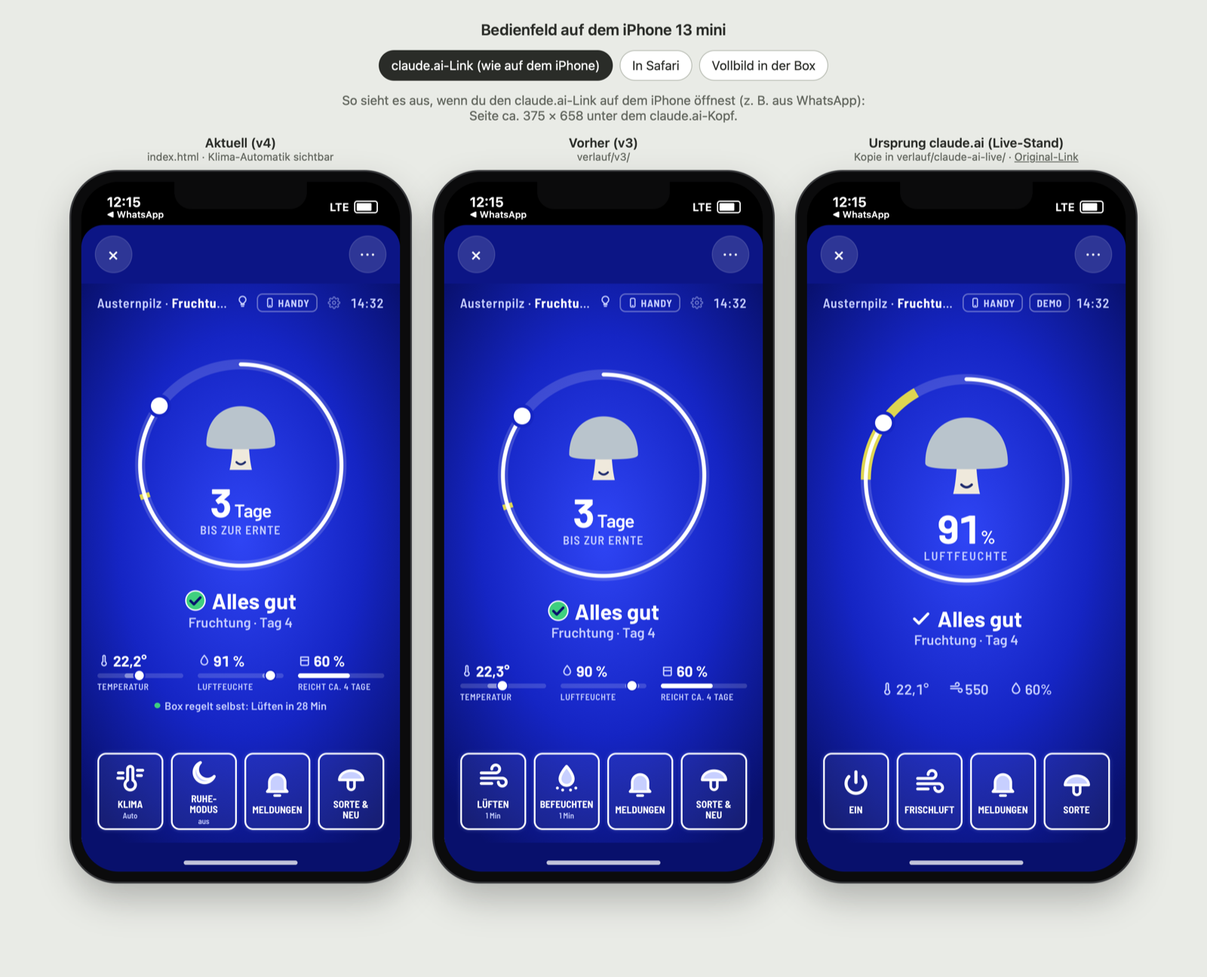
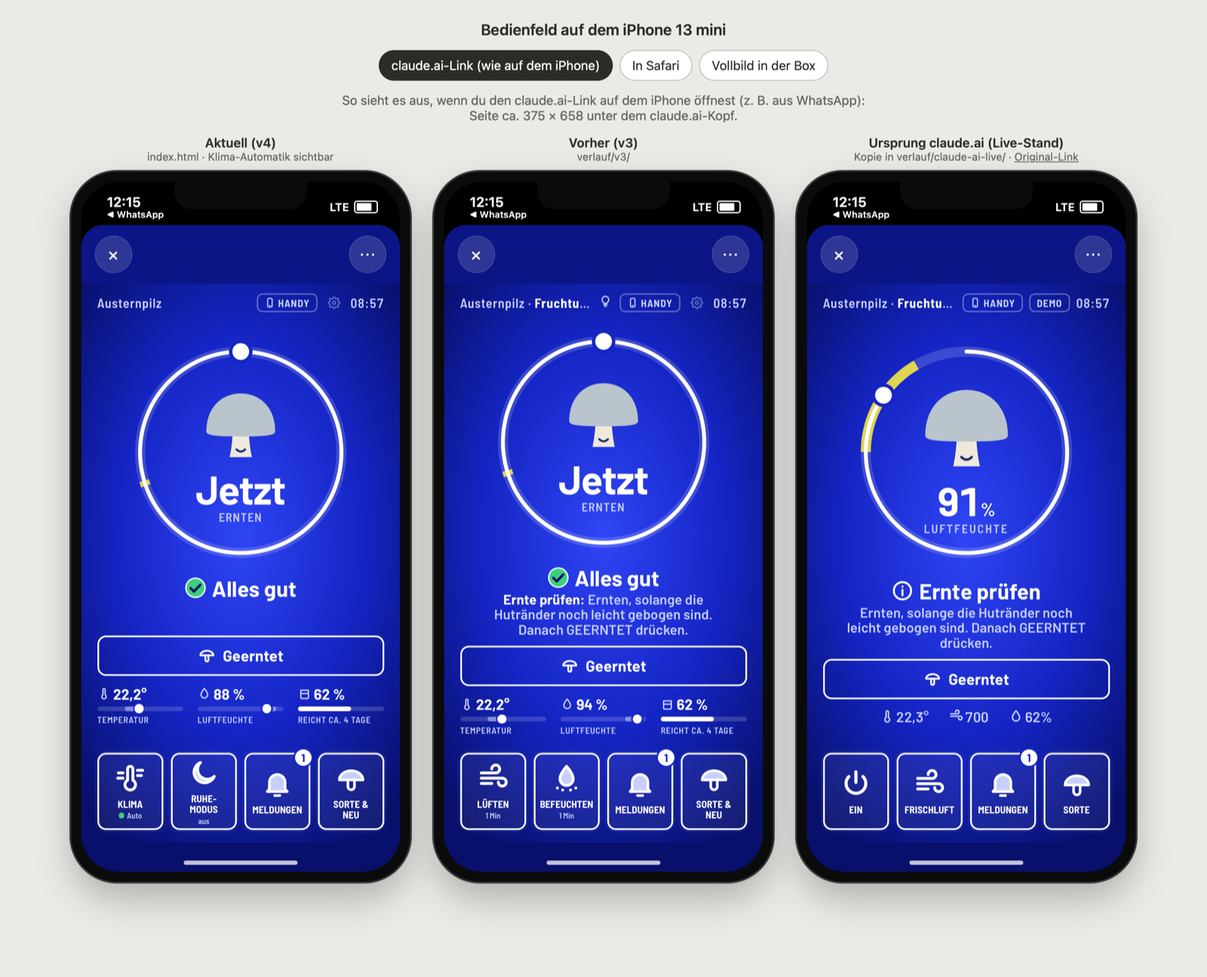
feat: Startbild schlanker – kein Text unter „Alles gut“, Klima-Punkt blinkt dauerhaft, oben nur Pilzname; Einzel-Vorschau

diff --git a/01-konzept/bedienfeld/index.html b/01-konzept/bedienfeld/index.html
@@ -142,10 +142,10 @@ button{font:inherit;color:inherit;cursor:pointer;-webkit-tap-highlight-color:tra
 .hist svg{width:5cqw;height:5cqw}
 .hist time{color:var(--ink-soft);font-variant-numeric:tabular-nums;white-space:nowrap}
 .hist small{grid-column:3;color:var(--ink-soft);font-size:3.6cqw}
-.autoline{display:flex;align-items:center;justify-content:center;gap:1.6cqw;flex-wrap:wrap;margin-top:2.6cqw;font-size:3.8cqw;font-weight:600;color:var(--ink-soft);text-align:center;line-height:1.2}
-.autoline b{color:var(--ink);font-weight:700}
-.autoline .pulse,.key .pulse{display:inline-block;width:2cqw;height:2cqw;border-radius:50%;background:var(--ok);box-shadow:0 0 0 0 rgba(63,207,127,.7);animation:pulse 1.6s ease-out infinite}
-@keyframes pulse{70%{box-shadow:0 0 0 2cqw rgba(63,207,127,0)}100%{box-shadow:0 0 0 0 rgba(63,207,127,0)}}
+/* Klima-Taste: grüner Punkt blinkt dauerhaft, solange die Automatik läuft */
+.key .pulse{display:inline-block;width:2cqw;height:2cqw;border-radius:50%;background:var(--ok);animation:autoblink 1.2s ease-in-out infinite}
+@keyframes autoblink{50%{opacity:.1}}
+@media (prefers-reduced-motion:reduce){.key .pulse{animation:none}}
 .key i{display:inline-flex;align-items:center;gap:1cqw}
 .crow{display:grid;grid-template-columns:auto 1fr auto;gap:1cqw 2.4cqw;align-items:center;border-bottom:.3cqw solid var(--ink-dim);padding:2cqw 0}
 .crow svg{width:6.4cqw;height:6.4cqw}
@@ -261,7 +261,7 @@ button{font:inherit;color:inherit;cursor:pointer;-webkit-tap-highlight-color:tra
   <div class="device">
     <div class="glass">
       <div class="screen" id="screen">
-        <div class="topbar"><span id="topCulture">Austernpilz · <b>Fruchtung</b></span><span class="tr"><span class="ticon" id="topIcons"></span><button class="link-chip" id="linkChip" aria-label="Mit Handy verbinden"><svg viewBox="0 0 24 24" fill="none" stroke="currentColor" stroke-width="2.4" stroke-linecap="round" aria-hidden="true"><rect x="7" y="2.5" width="10" height="19" rx="2.5"/><path d="M11 18.5h2"/></svg><span>Handy</span></button><button class="admin-btn" id="demoChip" aria-label="Admin-Modus"><svg viewBox="0 0 24 24" fill="none" stroke="currentColor" stroke-width="2" stroke-linecap="round" stroke-linejoin="round" aria-hidden="true"><circle cx="12" cy="12" r="3"/><path d="M19.4 15a1.7 1.7 0 0 0 .3 1.8l.1.1a2 2 0 1 1-2.8 2.8l-.1-.1a1.7 1.7 0 0 0-1.8-.3 1.7 1.7 0 0 0-1 1.5V21a2 2 0 1 1-4 0v-.1a1.7 1.7 0 0 0-1.1-1.5 1.7 1.7 0 0 0-1.8.3l-.1.1a2 2 0 1 1-2.8-2.8l.1-.1a1.7 1.7 0 0 0 .3-1.8 1.7 1.7 0 0 0-1.5-1H3a2 2 0 1 1 0-4h.1a1.7 1.7 0 0 0 1.5-1.1 1.7 1.7 0 0 0-.3-1.8l-.1-.1a2 2 0 1 1 2.8-2.8l.1.1a1.7 1.7 0 0 0 1.8.3H9a1.7 1.7 0 0 0 1-1.5V3a2 2 0 1 1 4 0v.1a1.7 1.7 0 0 0 1 1.5 1.7 1.7 0 0 0 1.8-.3l.1-.1a2 2 0 1 1 2.8 2.8l-.1.1a1.7 1.7 0 0 0-.3 1.8V9a1.7 1.7 0 0 0 1.5 1H21a2 2 0 1 1 0 4h-.1a1.7 1.7 0 0 0-1.5 1z"/></svg></button><span id="topClock">--:--</span></span></div>
+        <div class="topbar"><span id="topCulture">Austernpilz</span><span class="tr"><span class="ticon" id="topIcons"></span><button class="link-chip" id="linkChip" aria-label="Mit Handy verbinden"><svg viewBox="0 0 24 24" fill="none" stroke="currentColor" stroke-width="2.4" stroke-linecap="round" aria-hidden="true"><rect x="7" y="2.5" width="10" height="19" rx="2.5"/><path d="M11 18.5h2"/></svg><span>Handy</span></button><button class="admin-btn" id="demoChip" aria-label="Admin-Modus"><svg viewBox="0 0 24 24" fill="none" stroke="currentColor" stroke-width="2" stroke-linecap="round" stroke-linejoin="round" aria-hidden="true"><circle cx="12" cy="12" r="3"/><path d="M19.4 15a1.7 1.7 0 0 0 .3 1.8l.1.1a2 2 0 1 1-2.8 2.8l-.1-.1a1.7 1.7 0 0 0-1.8-.3 1.7 1.7 0 0 0-1 1.5V21a2 2 0 1 1-4 0v-.1a1.7 1.7 0 0 0-1.1-1.5 1.7 1.7 0 0 0-1.8.3l-.1.1a2 2 0 1 1-2.8-2.8l.1-.1a1.7 1.7 0 0 0 .3-1.8 1.7 1.7 0 0 0-1.5-1H3a2 2 0 1 1 0-4h.1a1.7 1.7 0 0 0 1.5-1.1 1.7 1.7 0 0 0-.3-1.8l-.1-.1a2 2 0 1 1 2.8-2.8l.1.1a1.7 1.7 0 0 0 1.8.3H9a1.7 1.7 0 0 0 1-1.5V3a2 2 0 1 1 4 0v.1a1.7 1.7 0 0 0 1 1.5 1.7 1.7 0 0 0 1.8-.3l.1-.1a2 2 0 1 1 2.8 2.8l-.1.1a1.7 1.7 0 0 0-.3 1.8V9a1.7 1.7 0 0 0 1.5 1H21a2 2 0 1 1 0 4h-.1a1.7 1.7 0 0 0-1.5 1z"/></svg></button><span id="topClock">--:--</span></span></div>
 
         <div class="center" id="home">
           <div class="ring">
@@ -292,7 +292,6 @@ button{font:inherit;color:inherit;cursor:pointer;-webkit-tap-highlight-color:tra
           <button class="alert" id="alert" aria-label="Alle Meldungen anzeigen"></button>
           <button class="act" id="actBtn" hidden></button>
           <div class="mini" id="mini"></div>
-          <div class="autoline" id="autoline" aria-live="polite"></div>
         </div>
         <div class="keys">
           <button class="key" id="kClima" aria-label="Klima, läuft automatisch"><svg viewBox="0 0 24 24" fill="none" stroke="currentColor" stroke-width="2.2" stroke-linecap="round" stroke-linejoin="round"><path d="M10 13.5V5a2 2 0 0 1 4 0v8.5a4 4 0 1 1-4 0z"/><path d="M17.5 6h4M17.5 10h3M3 8h3.5M2.5 12h4"/></svg><b>Klima</b><i id="climaSub">Auto</i></button>
@@ -511,8 +510,8 @@ function render(){
   if(key!==lastAlert){lastAlert=key;const el=$("#alert");
     if(!S.power){el.className="alert";el.innerHTML=`<span class="t">Pausiert</span><span class="a">Versehentlich? WEITERLAUFEN drücken. Neu ansetzen fortsetzen: SORTE &amp; NEU.</span>`}
     else if(awayQuiet){el.className="alert";el.innerHTML=`<span class="t">${IC.away}Urlaub</span><span class="a">Box spart Wasser · Meldungen gehen aufs Handy</span>`}
-    else if(!top){el.className="alert";el.innerHTML=`<span class="t">${IC.ok}Alles gut</span><span class="a">${PHASES[S.phase]} · Tag ${day()}</span>`}
-    else if(top.sev==="info"){el.className="alert";el.innerHTML=`<span class="t">${IC.ok}Alles gut</span><span class="a"><b>${top.t}:</b> ${top.a}</span>`}
+    else if(!top){el.className="alert";el.innerHTML=`<span class="t">${IC.ok}Alles gut</span>`}
+    else if(top.sev==="info"){el.className="alert";el.innerHTML=`<span class="t">${IC.ok}Alles gut</span>`}
     else{el.className="alert warn";el.innerHTML=`<span class="t">${IC.warn}${top.t}</span><span class="a">${top.a}</span>`}
   }
   // Pausiert: ein Tipp macht das Beenden rückgängig (Fehlertoleranz)
@@ -532,16 +531,14 @@ function render(){
     stat(hOff,IC.rh,showVal?Math.round(sim.rh)+" %":"–",band(T.rh,40,100,sim.rh),"Luftfeuchte")+
     stat(wOff,IC.tank,Math.round(sim.tank)+" %",`<i class="lvl" style="width:${sim.tank}%"></i>`,sim.tank<=0?"Jetzt auffüllen":td<1?"Heute auffüllen":`reicht ca. ${td} ${td===1?"Tag":"Tage"}`);
   $("#topClock").textContent=`${pad(d.getHours())}:${pad(d.getMinutes())}`;
-  $("#topCulture").innerHTML=`${esc(SPECIES[S.species].name)} · <b>${PHASES[S.phase]}</b>`;
+  $("#topCulture").textContent=SPECIES[S.species].name;
   const left=Math.max(0,sim.burst-Date.now()), mleft=Math.max(0,sim.mist-Date.now());
-  const Dv=sim.dev, busy=S.power&&(Dv.luefter||Dv.nebel||Dv.heizung);
-  $("#climaSub").innerHTML=!S.power?"aus":busy?'<span class="pulse" aria-hidden="true"></span>Auto':"Auto";
+  $("#climaSub").innerHTML=!S.power?"aus":'<span class="pulse" aria-hidden="true"></span>Auto';
   $("#kSleep").classList.toggle("on",!!S.sleep); $("#kSleep").setAttribute("aria-pressed",!!S.sleep);
   $("#sleepSub").textContent=S.sleep?"an":"aus";
   syncSleep(list);
-  $("#autoline").innerHTML=!S.power?"":autoText();
   if(open==="clima"){const v=$("#climaRows");if(v)v.innerHTML=climaRows()}
-  $("#topIcons").innerHTML=(S.power&&sim.dev.licht?`<span aria-label="Licht an" role="img">${IC.bulb}</span>`:"")+(S.away?`<button class="away-chip" data-endaway aria-label="Urlaub beenden">Urlaub ✕</button>`:"")+(S.sleep?`<span class="sleep-chip" aria-label="Ruhemodus an">Ruhe</span>`:"");
+  $("#topIcons").innerHTML=(S.away?`<button class="away-chip" data-endaway aria-label="Urlaub beenden">Urlaub ✕</button>`:"")+(S.sleep?`<span class="sleep-chip" aria-label="Ruhemodus an">Ruhe</span>`:"");
   $("#linkChip").classList.toggle("on",!!appSeen);
   $("#plateSub").textContent=`${SPECIES[S.species].name} · ${PHASES[S.phase]}`;
   if(open==="alerts") alertPanel(true);
@@ -687,13 +684,6 @@ const paused=()=>{if(!S.power){msg("Pausiert · erst WEITERLAUFEN");return true}
 /* Automatik sichtbar machen: was die Box gerade selbst tut */
 function nextAir(){const d=new Date(), m=d.getHours()*60+d.getMinutes();return 30-(m%30)}
 function lightUntil(){const d=new Date(), m=d.getHours()*60+d.getMinutes(), on=m>=480&&m<1200;return {on, at:on?"20:00":"8:00"}}
-function autoText(){
-  const D=sim.dev, parts=[];
-  if(D.heizung) parts.push("<b>Heizung an</b>");
-  if(D.nebel) parts.push("<b>Nebler an</b>");
-  parts.push(D.luefter?"<b>Lüfter an</b>":`Lüften in ${nextAir()} Min`);
-  return `<span class="pulse" aria-hidden="true"></span>Box regelt selbst: ${parts.join(" · ")}`;
-}
 function climaRows(){
   const T=tgt(), D=sim.dev, rh=Math.round(sim.rh), t=sim.t.toFixed(1).replace(".",","), lu=lightUntil();
   const row=(ic,name,state,btn)=>`<div class="crow">${ic}<div><b>${name}</b><span><span class="auto">AUTO</span>${state}</span></div>${btn||"<span></span>"}</div>`;

diff --git a/01-konzept/bedienfeld/vorschau-einzeln.html b/01-konzept/bedienfeld/vorschau-einzeln.html
@@ -1,0 +1,113 @@
+<!doctype html>
+<html lang="de">
+<head>
+<meta charset="utf-8">
+<meta name="viewport" content="width=device-width,initial-scale=1">
+<title>Bedienfeld aktuell</title>
+<style>
+  :root { --bg: #e9ebe6; --fg: #2a2c28; --muted: #62665e; --sheet: #0c1585; }
+  body { margin: 0; min-height: 100vh; background: var(--bg); color: var(--fg);
+         font: 15px -apple-system, BlinkMacSystemFont, "Segoe UI", sans-serif;
+         display: flex; flex-direction: column; align-items: center; gap: 14px; padding: 24px 16px; box-sizing: border-box; }
+  h1 { font-size: 18px; margin: 0; font-weight: 600; }
+  p { margin: 0; color: var(--muted); text-align: center; max-width: 640px; }
+  a { color: inherit; }
+  .modes { display: flex; gap: 8px; flex-wrap: wrap; justify-content: center; }
+  .modes button { font: inherit; padding: 8px 14px; border-radius: 999px; border: 1px solid #b9bdb4; background: #fff; color: var(--fg); cursor: pointer; }
+  .modes button[aria-pressed="true"] { background: var(--fg); color: #fff; border-color: var(--fg); }
+  .row { display: flex; gap: 28px; flex-wrap: wrap; justify-content: center; align-items: flex-start; }
+  figure { margin: 0; display: flex; flex-direction: column; align-items: center; gap: 10px; }
+  figcaption { font-weight: 600; text-align: center; }
+  figcaption small { display: block; font-weight: 400; color: var(--muted); }
+
+  /* iPhone 13 mini: Bildschirm 375 × 812 Punkte */
+  .phone { padding: 12px; border-radius: 54px; background: #0b0b0c; box-shadow: 0 0 0 2px #3a3b3e, 0 20px 50px rgba(0,0,0,.25); }
+  .screen { position: relative; width: 375px; height: 812px; border-radius: 44px; overflow: hidden; background: #000; }
+  iframe { position: absolute; left: 0; width: 375px; border: 0; display: block; background: #fff; }
+  .notch { position: absolute; top: 0; left: 50%; transform: translateX(-50%); width: 156px; height: 32px; background: #0b0b0c; border-radius: 0 0 20px 20px; z-index: 3; }
+  .home { position: absolute; bottom: 8px; left: 50%; transform: translateX(-50%); width: 134px; height: 5px; border-radius: 3px; background: #000; z-index: 3; }
+
+  /* Statusleiste: hell (Safari) oder schwarz (claude.ai-Ansicht) */
+  .status { position: absolute; top: 0; left: 0; right: 0; height: 51px; display: flex; align-items: center; justify-content: space-between;
+            padding: 8px 26px 0 30px; box-sizing: border-box; font-weight: 600; font-size: 16px; color: #000; background: #f2f2f7; z-index: 2; }
+  .status .l { display: flex; flex-direction: column; line-height: 1.1; }
+  .status .l small { font-size: 11px; font-weight: 500; }
+  .status .r { display: flex; gap: 6px; align-items: center; font-size: 13px; }
+  .bat { width: 25px; height: 12px; border: 1.5px solid currentColor; border-radius: 3.5px; position: relative; }
+  .bat::after { content: ""; position: absolute; inset: 1.5px; right: 6px; background: currentColor; border-radius: 1px; }
+  .claude .status { background: #000; color: #fff; }
+
+  /* Safari: Adressleiste unten */
+  .safari { position: absolute; left: 0; right: 0; bottom: 0; height: 98px; background: #f2f2f7; border-top: 1px solid #d1d1d6; }
+  .safari .bar { margin: 8px 14px 0; height: 40px; border-radius: 12px; background: #fff; box-shadow: 0 1px 3px rgba(0,0,0,.12);
+                 display: flex; align-items: center; justify-content: center; font-size: 14px; color: #000; }
+
+  /* claude.ai-Ansicht (Link aus WhatsApp o. Ä.): Blatt mit runden Ecken, Kopf mit ✕ und ⋯, unten Sicherheitsabstand */
+  .sheet { position: absolute; top: 51px; left: 0; right: 0; height: 69px; background: var(--sheet); border-radius: 26px 26px 0 0;
+           display: flex; align-items: center; justify-content: space-between; padding: 0 16px; box-sizing: border-box; z-index: 1; }
+  .sheet span { width: 44px; height: 44px; border-radius: 50%; background: rgba(255,255,255,.14); box-shadow: 0 0 0 1px rgba(255,255,255,.1) inset;
+                display: grid; place-items: center; color: #fff; font-size: 20px; line-height: 1; }
+  .sheet-bottom { position: absolute; left: 0; right: 0; bottom: 0; height: 34px; background: #08106c; }
+  .claude .home { background: rgba(255,255,255,.75); }
+  .full .home { background: rgba(255,255,255,.6); }
+  [hidden] { display: none !important; }
+  /* drei Telefone nebeneinander auch auf kleineren Bildschirmen */
+  @media (max-width: 1400px) { .phone { zoom: .86; } }
+  @media (max-width: 1150px) { .phone { zoom: .72; } }
+</style>
+</head>
+<body>
+  <h1>Bedienfeld (aktueller Entwurf)</h1>
+  <div class="modes" role="group" aria-label="Ansicht">
+    <button type="button" data-mode="claude" aria-pressed="true">claude.ai-Link (wie auf dem iPhone)</button>
+    <button type="button" data-mode="safari" aria-pressed="false">In Safari</button>
+    <button type="button" data-mode="full" aria-pressed="false">Vollbild in der Box</button>
+  </div>
+  <p id="hint"></p>
+  <div class="row">
+    <figure>
+      <div class="phone"><div class="screen" data-src="index.html"></div></div>
+    </figure>
+  </div>
+  <script>
+    // Maße in Punkten, aus einem Screenshot vom iPhone 13 mini (375 × 812) abgemessen bzw. ca.
+    const MODES = {
+      claude: { top: 120, bottom: 34, hint: "So sieht es aus, wenn du den claude.ai-Link auf dem iPhone öffnest (z. B. aus WhatsApp): Seite ca. 375 × 658 unter dem claude.ai-Kopf." },
+      safari: { top: 51,  bottom: 98, hint: "Im normalen Safari-Tab: sichtbarer Bereich ca. 375 × 663." },
+      full:   { top: 51,  bottom: 34, hint: "Vollbild ohne Leisten (Web-App bzw. Geführter Zugriff), so wie es in der Box hängen soll: ca. 375 × 727." },
+    };
+    // Das Original fragt beim ersten Start, ob es Box-Display oder Handy-App ist: für den Vergleich wie auf dem Handy „Box“
+    try { if (!localStorage.getItem("funghilab-role")) localStorage.setItem("funghilab-role", "box"); } catch (e) {}
+    const screens = [...document.querySelectorAll(".screen")];
+    for (const sc of screens) {
+      sc.innerHTML = `<iframe title="Bedienfeld"></iframe>
+        <div class="status"><span class="l">12:15<small>◀ WhatsApp</small></span><span class="r">LTE <span class="bat"></span></span></div>
+        <div class="notch"></div>
+        <div class="sheet"><span aria-hidden="true">✕</span><span aria-hidden="true">⋯</span></div>
+        <div class="sheet-bottom"></div>
+        <div class="safari"><div class="bar">🔒 claude.ai</div></div>
+        <div class="home"></div>`;
+      sc.querySelector("iframe").src = sc.dataset.src + "?v=" + Date.now();  // immer den aktuellen Stand laden, nicht den Cache
+    }
+    function show(mode) {
+      const m = MODES[mode];
+      for (const sc of screens) {
+        const f = sc.querySelector("iframe");
+        f.style.top = m.top + "px";
+        f.style.height = (812 - m.top - m.bottom) + "px";
+        sc.querySelector(".status").hidden = mode === "full";
+        sc.querySelector(".status small").hidden = mode !== "claude";
+        sc.querySelector(".sheet").hidden = mode !== "claude";
+        sc.querySelector(".sheet-bottom").hidden = mode !== "claude";
+        sc.querySelector(".safari").hidden = mode !== "safari";
+        sc.classList.toggle("claude", mode === "claude");
+        sc.classList.toggle("full", mode === "full");
+      }
+      document.getElementById("hint").textContent = m.hint;
+      document.querySelectorAll(".modes button").forEach(b => b.setAttribute("aria-pressed", b.dataset.mode === mode));
+    }
+    document.querySelectorAll(".modes button").forEach(b => b.addEventListener("click", () => show(b.dataset.mode)));
+    show("claude");
+  </script>
+</body>
+</html>

diff --git a/BRIEF.md b/BRIEF.md
@@ -58,7 +58,7 @@ Von Felix bestätigt. Diese Tabelle ist der maßgebliche Stand; Überholtes wird
 | 7–8 | Hardware | **Raspberry Pi bleibt Steuerrechner; als Display dient ein fest eingebautes iPhone 13 mini** (statt Touch Display 2), das die Web-Oberfläche des Pi über WLAN zeigt; Dauerstrom per Kabel. **Echt:** Taster und LED. **Simuliert:** Feuchte und Temperatur (für die Vorführung umschaltbar). Lüfter, Vernebler und Sensor sind nicht Teil des Prototyps. |
 | – | **Leitidee** | **B „Radikal einfach“:** ein großer Zustand (Farbe + Symbol + ein Satz), darunter drei große Kacheln. Verworfen: A „Pilz-Begleiter“ (Charakter, Gamification), C „Physisch zuerst“ (Taster/Drehknopf/LED-Ring). |
 | 10 | Startbild | **Nur 2 Stufen:** „Alles gut“ (grüner Kreis mit Haken) oder **Warnung** (gelbes Warndreieck nach ISO 7010, schwarzer Rand und „!“). Immer Form + Farbe + Text, kein Blinken. Hinweise wie „Ernte prüfen“ laufen unter „Alles gut“. |
-| 10 | Bedienfeld (Box) | **Stand 2026-10-29 (v3):** `01-konzept/bedienfeld/index.html`, aufbauend auf dem Panel-Prototyp (https://claude.ai/artifact/EGmf5bvFTK16eYGfKWVkPE). **Das Display bleibt schlank, Erweitertes gehört in die App** (z. B. eigene Sorten anlegen). Ring = Fortschritt bis zur Ernte (Größe wie im Original), Mitte Tage bis zur Ernte; Werte Temperatur · Luftfeuchte · Wasser (reicht ca. X Tage). **v4: Automatik sichtbar.** 4 Kacheln: **Klima · Ruhemodus · Meldungen · Sorte & Neu.** Klima zeigt Lüfter, Nebler, Heizung und Licht mit AUTO-Status (läuft/nächstes Mal); „1 Min jetzt“ als Ausnahme mit „Bist du sicher?“ (**Empfohlen** mit Siegel oder **Nicht nötig** mit Warndreieck). Zeile auf dem Startbild: „Box regelt selbst: …“. **Ruhemodus** (ersetzt die Licht-Kachel): Display schwarz; wacht nur bei einer Warnung (Handeln nötig, z. B. Tank leer, zu warm), bei Berührung oder Taster; nach 30 s ohne Bedienung wieder schwarz; oben „RUHE“ sichtbar. Push aufs Handy macht die App (Box schickt Warnungen mit). Licht nur über Taster und App, als Ausnahme bis zum nächsten Wechsel (8/20 Uhr). Heizung simuliert (an unter Zielbereich), Kühlen nur Hinweis. Admin-Modus mit automatischer **Vorführung** (ca. 2 Min, 7 Schritte mit Untertiteln) für die Präsentation. Meldungen: aktueller Status mit Datum/Uhrzeit, offene Meldungen mit „seit“, **Verlauf** vergangener Meldungen (Beginn, behoben um). Sorte & Neu: Sorten **ansehen** (Schwierigkeit, Dauer, Temperatur, Feuchte) ändert nichts; **Neu ansetzen** nur nach Hinweis, was verloren geht, und **2 s gedrückt halten**; danach Kammer leeren → Zuchtset einsetzen, Zeit startet bei Tag 1. **Notfall-Rückweg** „Zurück zu …“ (14 Tage): alter Durchgang läuft mit den echten Tagen weiter. Urlaub ebenfalls unter Sorte & Neu, oben „URLAUB ✕“. **Admin-Modus** klein (Zahnrad oben): Situationen auslösen, Tag +1, Zurücksetzen, Messwerte live. Oben **HANDY**-Verbindung wie im Original (nur auf claude.ai). Licht nur über Taster und App. Ältere Stände (v1, v2, v3, Original) in `01-konzept/bedienfeld/verlauf/`. |
+| 10 | Bedienfeld (Box) | **Stand 2026-10-29 (v3):** `01-konzept/bedienfeld/index.html`, aufbauend auf dem Panel-Prototyp (https://claude.ai/artifact/EGmf5bvFTK16eYGfKWVkPE). **Das Display bleibt schlank, Erweitertes gehört in die App** (z. B. eigene Sorten anlegen). Ring = Fortschritt bis zur Ernte (Größe wie im Original), Mitte Tage bis zur Ernte; Werte Temperatur · Luftfeuchte · Wasser (reicht ca. X Tage). **v4: Automatik sichtbar.** 4 Kacheln: **Klima · Ruhemodus · Meldungen · Sorte & Neu.** Klima zeigt Lüfter, Nebler, Heizung und Licht mit AUTO-Status (läuft/nächstes Mal); „1 Min jetzt“ als Ausnahme mit „Bist du sicher?“ (**Empfohlen** mit Siegel oder **Nicht nötig** mit Warndreieck). Startbild schlank: unter „Alles gut“ kein Zusatztext (zu klein), oben links nur der Pilzname (ohne Phase, ohne Lampensymbol); grüner Punkt an der Klima-Taste blinkt dauerhaft, solange AUTO läuft (statt Zeile „Box regelt selbst“). **Ruhemodus** (ersetzt die Licht-Kachel): Display schwarz; wacht nur bei einer Warnung (Handeln nötig, z. B. Tank leer, zu warm), bei Berührung oder Taster; nach 30 s ohne Bedienung wieder schwarz; oben „RUHE“ sichtbar. Push aufs Handy macht die App (Box schickt Warnungen mit). Licht nur über Taster und App, als Ausnahme bis zum nächsten Wechsel (8/20 Uhr). Heizung simuliert (an unter Zielbereich), Kühlen nur Hinweis. Admin-Modus mit automatischer **Vorführung** (ca. 2 Min, 7 Schritte mit Untertiteln) für die Präsentation. Meldungen: aktueller Status mit Datum/Uhrzeit, offene Meldungen mit „seit“, **Verlauf** vergangener Meldungen (Beginn, behoben um). Sorte & Neu: Sorten **ansehen** (Schwierigkeit, Dauer, Temperatur, Feuchte) ändert nichts; **Neu ansetzen** nur nach Hinweis, was verloren geht, und **2 s gedrückt halten**; danach Kammer leeren → Zuchtset einsetzen, Zeit startet bei Tag 1. **Notfall-Rückweg** „Zurück zu …“ (14 Tage): alter Durchgang läuft mit den echten Tagen weiter. Urlaub ebenfalls unter Sorte & Neu, oben „URLAUB ✕“. **Admin-Modus** klein (Zahnrad oben): Situationen auslösen, Tag +1, Zurücksetzen, Messwerte live. Oben **HANDY**-Verbindung wie im Original (nur auf claude.ai). Licht nur über Taster und App. Ältere Stände (v1, v2, v3, Original) in `01-konzept/bedienfeld/verlauf/`. |
 | 9 | App-Aufbau | **Separate App:** einfache Startseite + 5 Unterseiten, eine davon **Advanced Analytics**. |
 | – | Booklet | **Großteils als Story:** einfacher Nutzer und Power-User, der alles trackt, plus Ausschnitt Bauprozess mit Skizzen und 1–2 FreeCAD-Bildern; jede Szene mit HCI-Bezug. |
 | – | Priorität | **Interface und Interaktion vor Pi:** Pi-Software und Display-Code ruhen vorerst; das Repo-Display zeigt noch die alte Oberfläche. |

diff --git a/01-konzept/bedienfeld/README.md b/01-konzept/bedienfeld/README.md
@@ -4,6 +4,7 @@
 |---|---|
 | [`index.html`](index.html) | **Aktuelles Bedienfeld** (v4, Stand 29.10.2026). Läuft ohne Server: im Browser öffnen oder vom Pi ausliefern. Original: https://claude.ai/artifact/EGmf5bvFTK16eYGfKWVkPE |
 | [`vorschau-iphone.html`](vorschau-iphone.html) | iPhone-13-mini-Vorschau: links aktuell (v4), Mitte v3, rechts der Live-Stand von claude.ai; Ansichten claude.ai-Link / Safari / Vollbild |
+| [`vorschau-einzeln.html`](vorschau-einzeln.html) | Nur der aktuelle Entwurf im iPhone-Rahmen (eigener claude.ai-Link, siehe Haupt-README) |
 | [`verlauf/`](verlauf/) | Ältere Stände fürs Booklet (Entwicklungsverlauf). Nicht löschen. |
 
 ## Verlauf
@@ -15,4 +16,4 @@
 | v2 „Panel“ (29.10.2026) | [`verlauf/v2-panel/`](verlauf/v2-panel/) | Wand-Bedienteil vom Kollegen: Pilz im Feuchte-Ring, wichtigste Meldung, Tasten Ein · Frischluft · Meldungen · Sorte |
 | Original claude.ai, Live-Stand (29.10.2026, 12:15) | [`verlauf/claude-ai-live/`](verlauf/claude-ai-live/) | Weiterentwicklung des Kollegen: Name „FunghiLab“, Handy-Verbindung per Code (Box ↔ Handy-App); zum Vergleich in der Vorschau. Bei Änderungen am Link neu übernehmen |
 | v3 (29.10.2026) | [`verlauf/v3/`](verlauf/v3/) | Ring = Fortschritt bis zur Ernte, Status-Symbole aus v1, Werte als Balken; 2 Status-Stufen; Tasten Lüften · Befeuchten (mit Empfehlung) · Meldungen (mit Verlauf) · Sorte & Neu (ansehen, bewusst neu ansetzen, Notfall-Rückweg, Urlaub); Admin-Modus; HANDY-Verbindung wie im Original |
-| v4 aktuell (29.10.2026) | [`index.html`](index.html) | Automatik sichtbar: Kacheln Klima (Lüfter, Nebler, Heizung, Licht mit AUTO-Status) · Ruhemodus (Display weckt nur bei Warnung) · Meldungen · Sorte & Neu; Zeile „Box regelt selbst“; simulierte Heizung; Vorführung im Admin-Modus |
+| v4 aktuell (29.10.2026) | [`index.html`](index.html) | Automatik sichtbar: Kacheln Klima (Lüfter, Nebler, Heizung, Licht mit AUTO-Status) · Ruhemodus (Display weckt nur bei Warnung) · Meldungen · Sorte & Neu; grüner Punkt an Klima blinkt dauerhaft; „Alles gut“ ohne Zusatztext; oben nur Pilzname; simulierte Heizung; Vorführung im Admin-Modus |

diff --git a/AGENTS.md b/AGENTS.md
@@ -15,5 +15,5 @@ Uni-Projekt (HCI, Prof. Zagel, Option B): Interaktionskonzept und Prototyp für 
 - **Autonomie:** Innerhalb eines freigegebenen Schritts selbst schreiben, testen und lokal committen. **Rückfrage vor:** Push, neuen Dependencies, Architekturänderungen, Einkäufen.
 - **Kein Bau ohne Zustimmung:** Erst Konzept und Architektur vorschlagen, bauen erst nach Freigabe.
 - **Git:** Vor jedem Commit `git status` prüfen und nur eigene Änderungen gezielt stagen (kein `git add -A`); fremde Änderungen ansprechen.
-- **Bedienfeld geändert?** Danach `sh 01-konzept/bedienfeld/screenshot.sh` ausführen (Bild in der README) und die Vorschau auf denselben claude.ai-Link neu veröffentlichen (https://claude.ai/artifact/NHS2mr5kJKUXR1yPjPjrXi; `vorschau-iphone.html` mit `index.html` als `aktuell/index.html`).
+- **Bedienfeld geändert?** Danach `sh 01-konzept/bedienfeld/screenshot.sh` ausführen (Bild in der README) und die Vorschau auf denselben claude.ai-Link neu veröffentlichen (https://claude.ai/artifact/NHS2mr5kJKUXR1yPjPjrXi; `vorschau-iphone.html` mit `index.html` als `aktuell/index.html`) – ebenso die Einzelansicht https://claude.ai/artifact/Lk5ruX821tCk1WkfVvBxKC (`vorschau-einzeln.html`). In beiden Vorschauen dabei `data-src="index.html"` zu `aktuell/index.html` ändern.
 - **Entscheidungen** sofort in `BRIEF.md` eintragen; Überholtes ersetzen statt anhängen.

diff --git a/README.md b/README.md
@@ -4,7 +4,7 @@ Growbox für Pilze mit Fokus auf **Mensch-Maschine-Interaktion** (HCI, Prof. Zag
 
 **Präsentation 05.11.2026, 10:00 · Abgabe 08.11.2026, 23:59**
 
-**▶ Bedienfeld live zum Ausprobieren: https://claude.ai/artifact/NHS2mr5kJKUXR1yPjPjrXi** (wird bei jeder Änderung neu veröffentlicht, gleicher Link)
+**▶ Bedienfeld live zum Ausprobieren: https://claude.ai/artifact/NHS2mr5kJKUXR1yPjPjrXi** (Vergleich mit älteren Ständen) · **nur aktueller Entwurf: https://claude.ai/artifact/Lk5ruX821tCk1WkfVvBxKC** (beide werden bei jeder Änderung neu veröffentlicht, gleiche Links)
 
 [![Bedienfeld: aktuell v4, vorher v3, Ursprung claude.ai](01-konzept/bedienfeld/bilder/vorschau-3-screens.png)](01-konzept/bedienfeld/)
 
